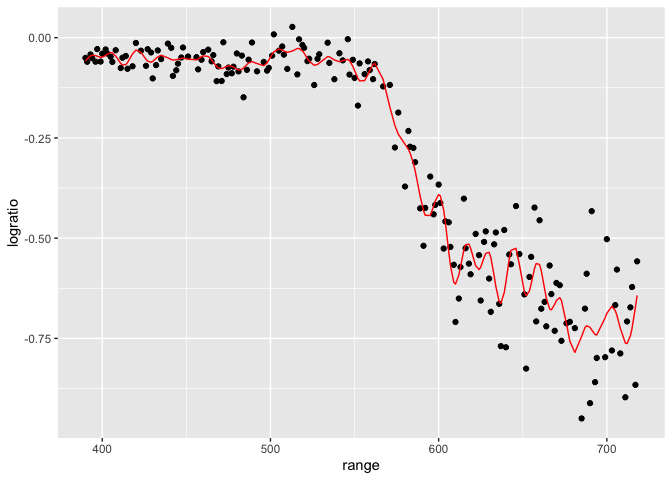
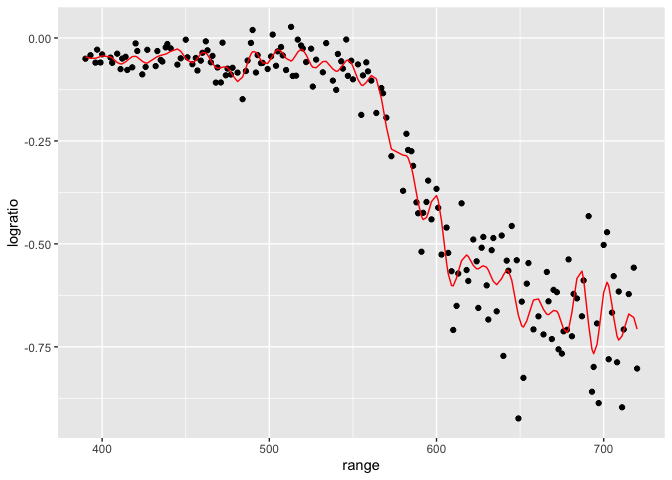
update

diff --git a/cross_validation.md b/cross_validation.md
@@ -100,19 +100,19 @@ train_df |>
 rmse(linear_mod, test_df)
 ```
 
-    ## [1] 0.136171
+    ## [1] 0.147218
 
 ``` r
 rmse(smooth_mod, test_df)
 ```
 
-    ## [1] 0.09012073
+    ## [1] 0.0960852
 
 ``` r
 rmse(wiggly_mod, test_df)
 ```
 
-    ## [1] 0.09891565
+    ## [1] 0.1020546
 
 ``` r
 cv_df = 
@@ -136,12 +136,12 @@ cv_df |> pull(train) |> nth(3)
     ##  2   391  -0.0601     2
     ##  3   393  -0.0419     3
     ##  4   394  -0.0510     4
-    ##  5   396  -0.0599     5
-    ##  6   397  -0.0284     6
+    ##  5   399  -0.0596     7
+    ##  6   400  -0.0399     8
     ##  7   402  -0.0294     9
     ##  8   403  -0.0395    10
-    ##  9   408  -0.0312    13
-    ## 10   409  -0.0382    14
+    ##  9   405  -0.0476    11
+    ## 10   406  -0.0604    12
     ## # ℹ 166 more rows
 
 let’s fit the model over and over
@@ -155,49 +155,58 @@ lidar_lm = function(df){
 ``` r
 cv_df |>
   mutate(
-    linear_fits = map(train, \(df) lm(logratio ~ range, data = df))
+    linear_fits = map(train, \(df) lm(logratio ~ range, data = df)),
+    smooth_fits  = map(train, \(df) mgcv::gam(logratio ~ s(range), data = df)),
+    wiggly_fits  = map(train, \(df) mgcv::gam(logratio ~ s(range, k = 50), sp = 10e-8, data = df))
   ) |>
   mutate(
-    rmse_linear = map2(linear_fits, test, rmse)
+    rmse_linear = map2(linear_fits, test, rmse),
+    rmse_linear = map2(smooth_fits, test, rmse),
+    rmse_linear = map2(wiggly_fits, test, rmse)
   )
 ```
 
-    ## # A tibble: 100 × 5
-    ##    train              test              .id   linear_fits rmse_linear
-    ##    <list>             <list>            <chr> <list>      <list>     
-    ##  1 <tibble [176 × 3]> <tibble [45 × 3]> 001   <lm>        <dbl [1]>  
-    ##  2 <tibble [176 × 3]> <tibble [45 × 3]> 002   <lm>        <dbl [1]>  
-    ##  3 <tibble [176 × 3]> <tibble [45 × 3]> 003   <lm>        <dbl [1]>  
-    ##  4 <tibble [176 × 3]> <tibble [45 × 3]> 004   <lm>        <dbl [1]>  
-    ##  5 <tibble [176 × 3]> <tibble [45 × 3]> 005   <lm>        <dbl [1]>  
-    ##  6 <tibble [176 × 3]> <tibble [45 × 3]> 006   <lm>        <dbl [1]>  
-    ##  7 <tibble [176 × 3]> <tibble [45 × 3]> 007   <lm>        <dbl [1]>  
-    ##  8 <tibble [176 × 3]> <tibble [45 × 3]> 008   <lm>        <dbl [1]>  
-    ##  9 <tibble [176 × 3]> <tibble [45 × 3]> 009   <lm>        <dbl [1]>  
-    ## 10 <tibble [176 × 3]> <tibble [45 × 3]> 010   <lm>        <dbl [1]>  
+    ## # A tibble: 100 × 7
+    ##    train    test     .id   linear_fits smooth_fits wiggly_fits rmse_linear
+    ##    <list>   <list>   <chr> <list>      <list>      <list>      <list>     
+    ##  1 <tibble> <tibble> 001   <lm>        <gam>       <gam>       <dbl [1]>  
+    ##  2 <tibble> <tibble> 002   <lm>        <gam>       <gam>       <dbl [1]>  
+    ##  3 <tibble> <tibble> 003   <lm>        <gam>       <gam>       <dbl [1]>  
+    ##  4 <tibble> <tibble> 004   <lm>        <gam>       <gam>       <dbl [1]>  
+    ##  5 <tibble> <tibble> 005   <lm>        <gam>       <gam>       <dbl [1]>  
+    ##  6 <tibble> <tibble> 006   <lm>        <gam>       <gam>       <dbl [1]>  
+    ##  7 <tibble> <tibble> 007   <lm>        <gam>       <gam>       <dbl [1]>  
+    ##  8 <tibble> <tibble> 008   <lm>        <gam>       <gam>       <dbl [1]>  
+    ##  9 <tibble> <tibble> 009   <lm>        <gam>       <gam>       <dbl [1]>  
+    ## 10 <tibble> <tibble> 010   <lm>        <gam>       <gam>       <dbl [1]>  
     ## # ℹ 90 more rows
 
 ``` r
-cv_df |>
+cv_df = 
+  cv_df |> 
   mutate(
-    linear_fits = map(train, \(df) lm(logratio ~ range, data = df))
-  ) |>
+    linear_mod  = map(train, \(df) lm(logratio ~ range, data = df)),
+    smooth_mod  = map(train, \(df) gam(logratio ~ s(range), data = df)),
+    wiggly_mod  = map(train, \(df) gam(logratio ~ s(range, k = 50), sp = 10e-8, data = df))) |> 
   mutate(
-    rmse_linear = map2_dbl(linear_fits, test, rmse)
-  )
+    rmse_linear = map2_dbl(linear_mod, test, \(mod, df) rmse(model = mod, data = df)),
+    rmse_smooth = map2_dbl(smooth_mod, test, \(mod, df) rmse(model = mod, data = df)),
+    rmse_wiggly = map2_dbl(wiggly_mod, test, \(mod, df) rmse(model = mod, data = df))
+    )
 ```
 
-    ## # A tibble: 100 × 5
-    ##    train              test              .id   linear_fits rmse_linear
-    ##    <list>             <list>            <chr> <list>            <dbl>
-    ##  1 <tibble [176 × 3]> <tibble [45 × 3]> 001   <lm>              0.152
-    ##  2 <tibble [176 × 3]> <tibble [45 × 3]> 002   <lm>              0.130
-    ##  3 <tibble [176 × 3]> <tibble [45 × 3]> 003   <lm>              0.124
-    ##  4 <tibble [176 × 3]> <tibble [45 × 3]> 004   <lm>              0.131
-    ##  5 <tibble [176 × 3]> <tibble [45 × 3]> 005   <lm>              0.151
-    ##  6 <tibble [176 × 3]> <tibble [45 × 3]> 006   <lm>              0.110
-    ##  7 <tibble [176 × 3]> <tibble [45 × 3]> 007   <lm>              0.134
-    ##  8 <tibble [176 × 3]> <tibble [45 × 3]> 008   <lm>              0.140
-    ##  9 <tibble [176 × 3]> <tibble [45 × 3]> 009   <lm>              0.138
-    ## 10 <tibble [176 × 3]> <tibble [45 × 3]> 010   <lm>              0.136
-    ## # ℹ 90 more rows
+try to look at this better
+
+``` r
+cv_df |> 
+  select(starts_with("rmse")) |> 
+  pivot_longer(
+    everything(),
+    names_to = "model", 
+    values_to = "rmse",
+    names_prefix = "rmse_") |> 
+  mutate(model = fct_inorder(model)) |> 
+  ggplot(aes(x = model, y = rmse)) + geom_violin()
+```
+
+![](cross_validation_files/figure-gfm/unnamed-chunk-18-1.png)<!-- -->
